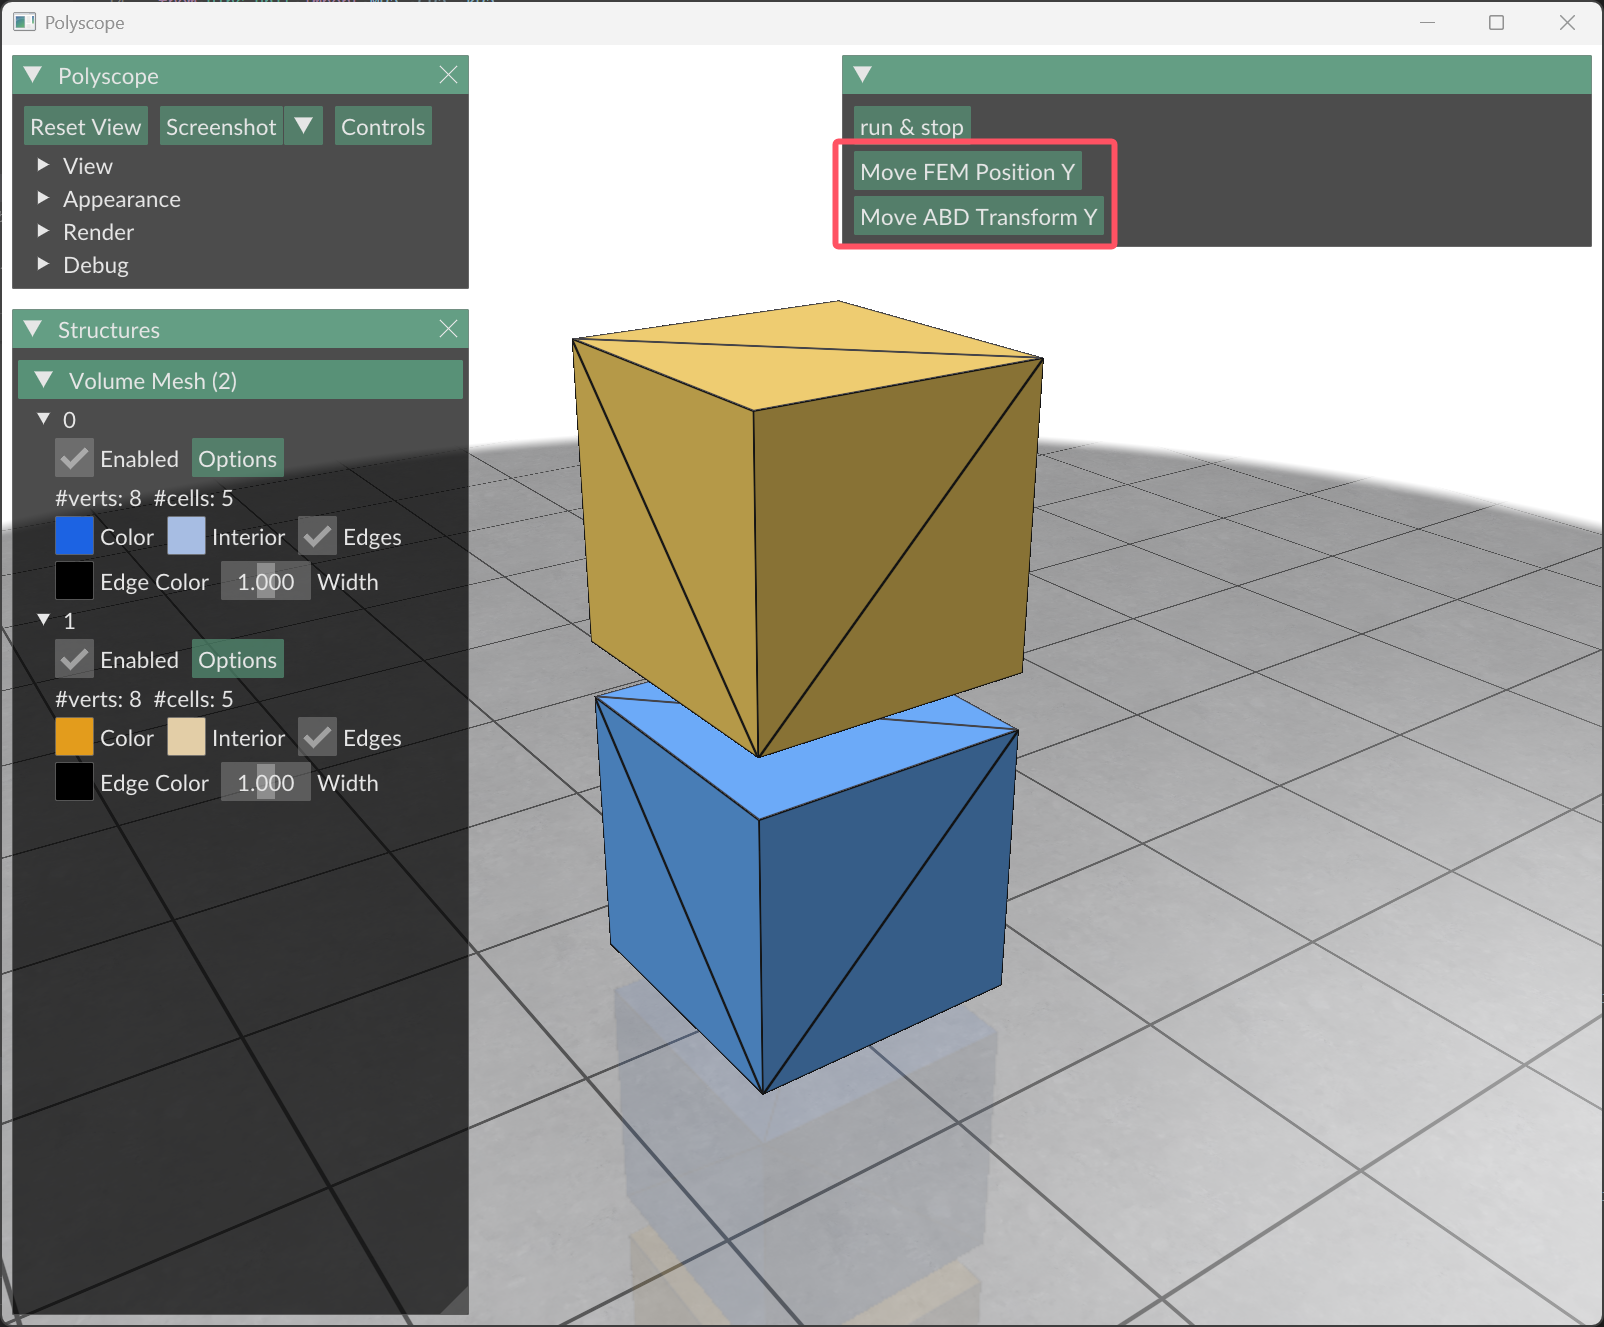
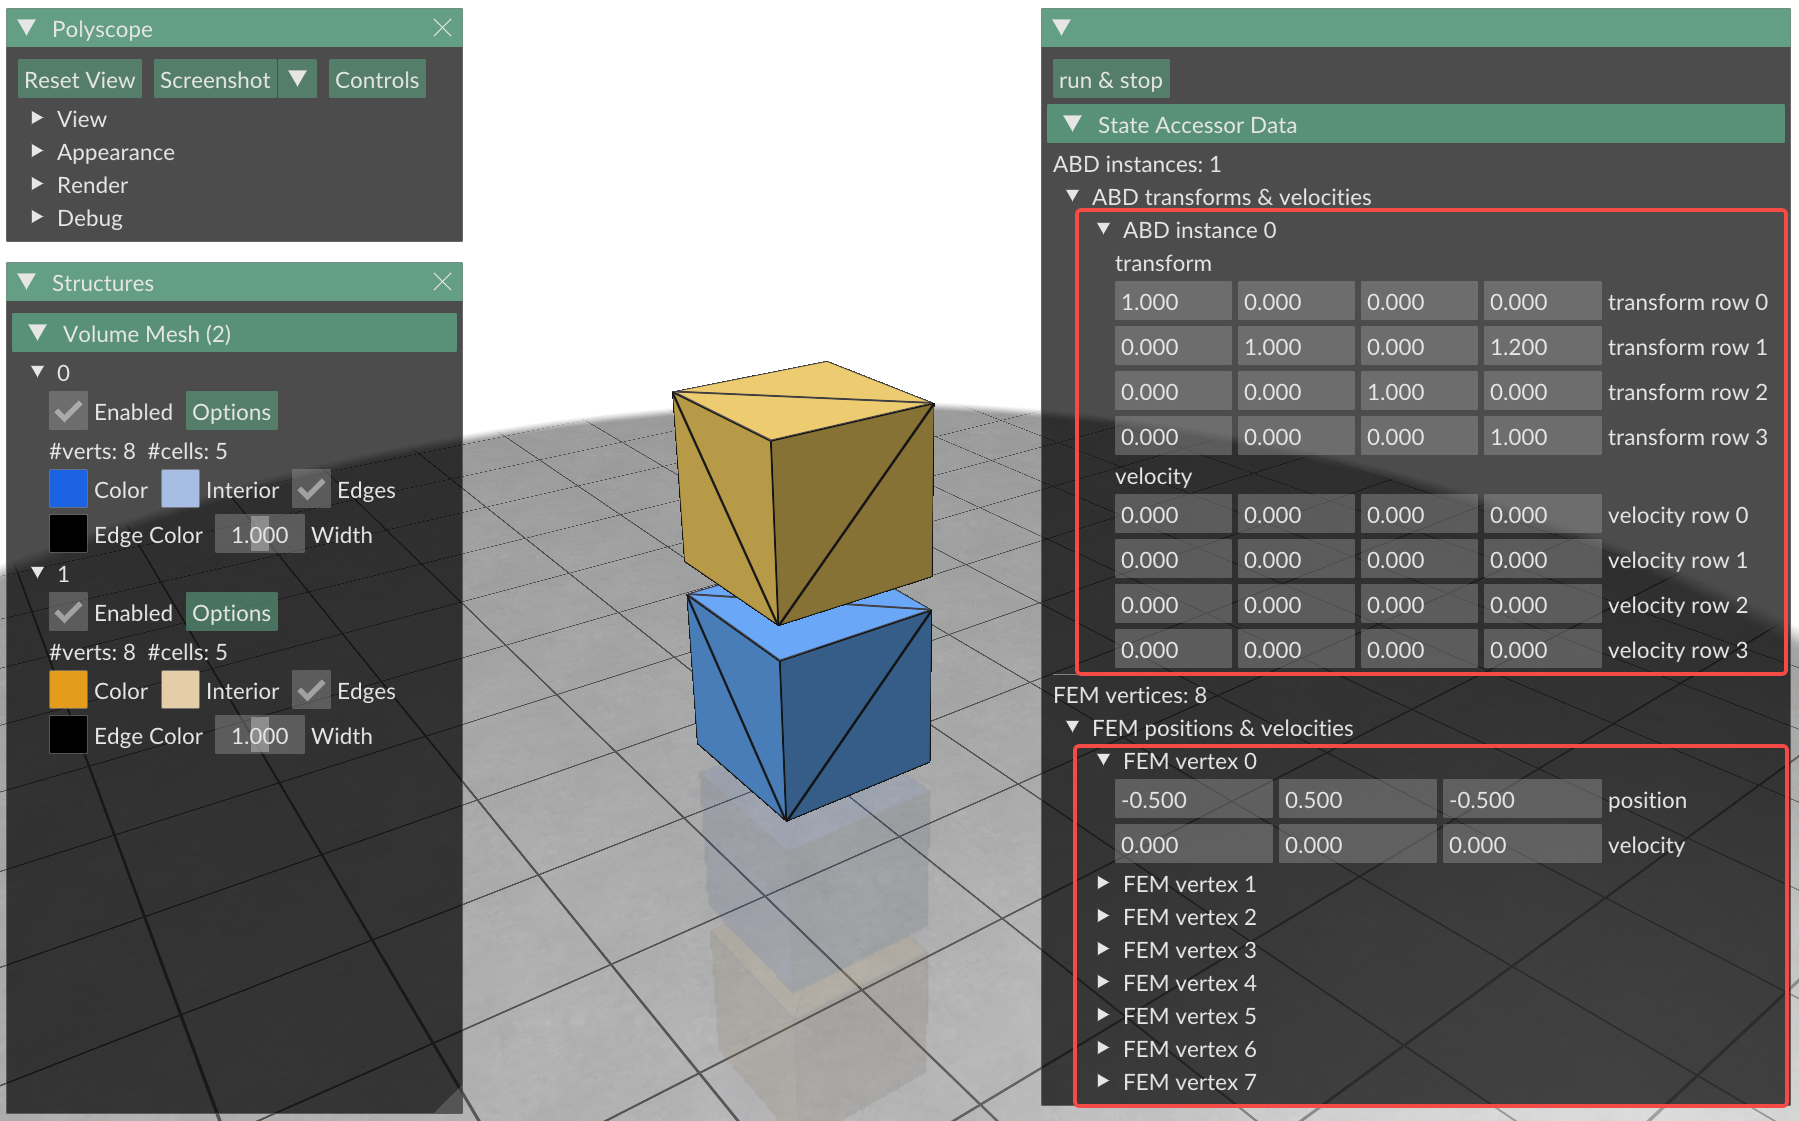
better gui for state_accessor_feature

diff --git a/python/31_state_accessor_feature/main.py b/python/31_state_accessor_feature/main.py
@@ -70,9 +70,11 @@ assert abd_state_accessor is not None and fem_state_accessor is not None, 'This 
 
 # 2) Create a state_geo to contain data
 abd_state_geo = abd_state_accessor.create_geometry()
-abd_state_geo.instances().create(builtin.transform, Matrix4x4.Zero()) # tell the backend we need transform information
+abd_transforms =abd_state_geo.instances().create(builtin.transform, Matrix4x4.Zero()) # tell the backend we need transform information
+abd_velocities =abd_state_geo.instances().create(builtin.velocity, Matrix4x4.Zero()) # tell the backend we need velocity information
 fem_state_geo = fem_state_accessor.create_geometry()
-fem_state_geo.vertices().create(builtin.position, Vector3.Zero()) # tell the backend we need position information
+fem_positions = fem_state_geo.vertices().create(builtin.position, Vector3.Zero()) # tell the backend we need position information
+fem_velocities = fem_state_geo.vertices().create(builtin.velocity, Vector3.Zero()) # tell the backend we need velocity information
 
 ps.init()
 sgui = SceneGUI(scene, 'split')
@@ -80,32 +82,124 @@ sgui.register()
 sgui.set_edge_width(1.0)
 
 run = False
+
+class StateAccessorInspector:
+    def __init__(
+        self,
+        abd_accessor: AffineBodyStateAccessorFeature,
+        fem_accessor: FiniteElementStateAccessorFeature,
+        abd_geo,
+        fem_geo,
+        abd_transforms_attr,
+        abd_velocities_attr,
+        fem_positions_attr,
+        fem_velocities_attr,
+    ):
+        self.abd_accessor = abd_accessor
+        self.fem_accessor = fem_accessor
+        self.abd_geo = abd_geo
+        self.fem_geo = fem_geo
+        self.abd_transforms_attr = abd_transforms_attr
+        self.abd_velocities_attr = abd_velocities_attr
+        self.fem_positions_attr = fem_positions_attr
+        self.fem_velocities_attr = fem_velocities_attr
+
+    def _draw_vector3(self, label: str, vec):
+        values = [
+            float(np.asarray(vec[0]).item()),
+            float(np.asarray(vec[1]).item()),
+            float(np.asarray(vec[2]).item()),
+        ]
+        changed, new_vals = imgui.InputFloat3(label, values)
+        if changed:
+            vec[0], vec[1], vec[2] = new_vals
+        return changed
+
+    def _draw_matrix4x4(self, label: str, mat):
+        changed = False
+        imgui.Text(label)
+        for r in range(4):
+            row_vals = [
+                float(np.asarray(mat[r, 0]).item()),
+                float(np.asarray(mat[r, 1]).item()),
+                float(np.asarray(mat[r, 2]).item()),
+                float(np.asarray(mat[r, 3]).item()),
+            ]
+            changed_r, new_vals = imgui.InputFloat4(
+                f"{label} row {r}",
+                row_vals,
+            )
+            if changed_r:
+                mat[r, 0], mat[r, 1], mat[r, 2], mat[r, 3] = new_vals
+                changed = True
+        return changed
+
+    def draw(self):
+        self.abd_accessor.copy_to(self.abd_geo)
+        self.fem_accessor.copy_to(self.fem_geo)
+
+        abd_transforms = view(self.abd_transforms_attr)
+        abd_velocities = view(self.abd_velocities_attr)
+        fem_positions = view(self.fem_positions_attr)
+        fem_velocities = view(self.fem_velocities_attr)
+
+        changed_abd = False
+        changed_fem = False
+
+        if imgui.CollapsingHeader('State Accessor Data'):
+            imgui.Text(f'ABD instances: {abd_transforms.shape[0]}')
+            if imgui.TreeNode('ABD transforms & velocities'):
+                for i in range(abd_transforms.shape[0]):
+                    if imgui.TreeNode(f'ABD instance {i}'):
+                        changed_abd |= self._draw_matrix4x4('transform', abd_transforms[i])
+                        changed_abd |= self._draw_matrix4x4('velocity', abd_velocities[i])
+                        imgui.TreePop()
+                imgui.TreePop()
+
+            imgui.Separator()
+            imgui.Text(f'FEM vertices: {fem_positions.shape[0]}')
+            if imgui.TreeNode('FEM positions & velocities'):
+                for i in range(fem_positions.shape[0]):
+                    if imgui.TreeNode(f'FEM vertex {i}'):
+                        changed_fem |= self._draw_vector3('position', fem_positions[i])
+                        changed_fem |= self._draw_vector3('velocity', fem_velocities[i])
+                        imgui.TreePop()
+                imgui.TreePop()
+
+        if changed_abd:
+            self.abd_accessor.copy_from(self.abd_geo)
+        if changed_fem:
+            self.fem_accessor.copy_from(self.fem_geo)
+
+        return changed_abd or changed_fem
+
+state_inspector = StateAccessorInspector(
+    abd_state_accessor,
+    fem_state_accessor,
+    abd_state_geo,
+    fem_state_geo,
+    abd_transforms,
+    abd_velocities,
+    fem_positions,
+    fem_velocities,
+)
+
 def on_update():
     global run
     
     if(imgui.Button('run & stop')):
         run = not run
     
-    move = False
-    
-    if(imgui.Button('Move FEM Position Y')):
-        fem_state_accessor.copy_to(fem_state_geo) # Get state data from backend
-        view(fem_state_geo.positions())[:] += Vector3.Values([0.0, 0.1, 0.0])
-        fem_state_accessor.copy_from(fem_state_geo) # Copy modified data back to backend
-        move = True
-    
-    if(imgui.Button('Move ABD Transform Y')):
-        abd_state_accessor.copy_to(abd_state_geo) # Get state data from backend
-        view(abd_state_geo.transforms())[:, 0:3, 3] += np.array([0.0, 0.1, 0.0])
-        abd_state_accessor.copy_from(abd_state_geo) # Copy modified data back to backend
-        move = True
-    
-    if(move):
-        world.retrieve() # Update scene data from backend to reflect the changes
-        sgui.update() # Update GUI
+    moved = state_inspector.draw()
+
+    if(moved):
+        # Update scene data from backend to reflect the changes
+        world.retrieve()
+        sgui.update()
         # If penetration happens after manual modification, we need to do a recovery step
         # to the last valid state
         if(world.sanity_checker().check() != SanityCheckResult.Success):
+            # We only dumped 0 frame, just recover it
             world.recover(0)
     
     # common simulation step

diff --git a/python/31_state_accessor_feature/README.md b/python/31_state_accessor_feature/README.md
@@ -1,17 +1,18 @@
 # State Accessor Feature
 
-This example demonstrates how to use the `StateAccessorFeature` to directly manipulate the state data of finite element entities and affine bodies in the simulation.
+This example demonstrates how to use the `StateAccessorFeature` to directly inspect and edit the state data of finite element entities and affine bodies in the simulation via an ImGui panel in Polyscope.
 
 ## Summary
 
-The `StateAccessorFeature` allows users to access and modify the internal state of simulation objects, such as positions and transformations, at runtime. This feature is useful for tasks like manual adjustments, debugging, or implementing custom behaviors，e.g. domain randomization.
+The `StateAccessorFeature` allows users to access and modify the internal state of simulation objects, such as positions, velocities, and transforms, at runtime. This feature is useful for tasks like manual adjustments, debugging, or implementing custom behaviors, e.g. domain randomization.
 
 ## Usage
 
 1. **Initialize the State Accessor**: After initializing the simulation world, retrieve the `AffineBodyStateAccessorFeature` and `FiniteElementStateAccessorFeature` from the world's features.
 2. **Create State Geometries**: Use the accessor to create geometries that hold the state data (e.g., positions or transformations).
-3. **Modify State Data**: Copy the state data from the backend, modify it, and copy it back to the backend.
-4. **Update the Simulation**: Retrieve the updated state and refresh the GUI to reflect the changes.
+3. **Inspect/Edit State Data**: Use the ImGui panel to view all ABD transforms/velocities and FEM positions/velocities; edits are pushed back with `copy_from()` when fields change.
+4. **Update the Simulation**: Retrieve the updated state and refresh the GUI to reflect the changes; run a sanity check and recover if needed.
+5. **View/Set Values**: Use the GUI to view and edit state values directly (ABD transforms/velocities, FEM positions/velocities).
 
 Refer to the `main.py` script for a detailed implementation.
 
